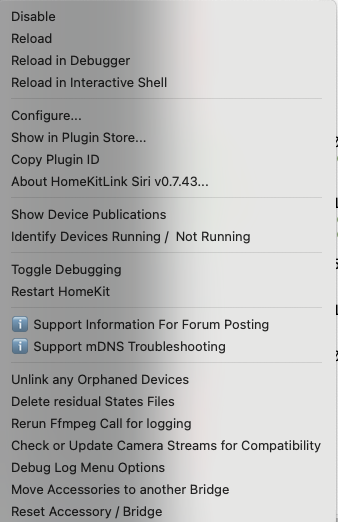
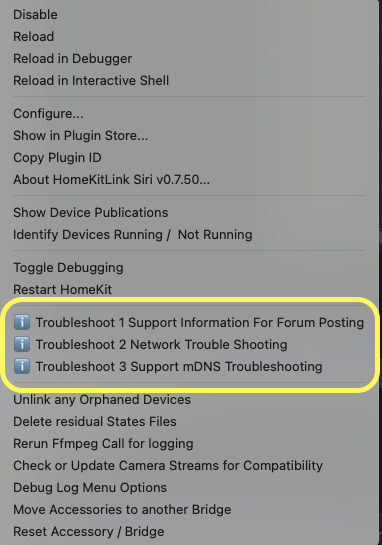
0.8.05
Amalgation of recent updates.
Add New Menu Item for Troubleshooting - now 1,2 and 3
Release as backwards compatible

diff --git a/HomeKitLink-Siri.indigoPlugin/Contents/Server Plugin/plugin.py b/HomeKitLink-Siri.indigoPlugin/Contents/Server Plugin/plugin.py
@@ -754,7 +754,7 @@ class Plugin(indigo.PluginBase):
 
             if int(self.count) > int(self.runningAccessoryCount):
                 self.logger.info('Given this difference, please review devices by Menu Item, Show Device Publications & Identity Devices Running for more information.')
-
+                self.logger.info("See Troubleshooting Menu items 1,2 and 3 from Plugin Menu for further aid")
 
             self.sleep(10)
 
@@ -5272,3 +5272,270 @@ class Plugin(indigo.PluginBase):
             self.logger.info(f"    Command not found: {command[0]} (may not be available on this system)")
         except Exception:
             self.logger.error(f"    Failed to run: {description}", exc_info=True)
+
+    def Menu_network_troubleshoot(self, *args, **kwargs):
+        """Standalone Network Troubleshooting function callable from the plugin menu.
+        Checks Apple Local Network Access permission, general network reachability,
+        and logs diagnostic results."""
+        try:
+            import socket
+            import struct
+
+            self.logger.info(u"{0:=^190}".format(""))
+            self.logger.info(u"{0:=^190}".format(" Network Trouble Shooting "))
+            self.logger.info(u"{0:=^190}".format(""))
+
+            ## ── Step 1: System information ──
+            self.logger.info(u"{0:=^130}".format(" System Information "))
+            self.logger.info(f"  macOS version:   {platform.mac_ver()[0] or platform.platform()}")
+            self.logger.info(f"  Python version:  {sys.version}")
+            self.logger.info(f"  Architecture:    {platform.machine()}")
+
+            ## ── Step 2: Apple Local Network Access Check ──
+            ## Starting with macOS Sequoia 15.x, Apple requires explicit Local Network Access
+            ## permission for each application/plugin. If this is not enabled in
+            ## System Settings > Privacy & Security > Local Network, then mDNS advertisement
+            ## will silently fail, preventing HomeKit discovery.
+            self.logger.info(u"{0:=^130}".format(" Apple Local Network Access Check "))
+            self.logger.info("  macOS Sequoia (15.x+) requires Local Network Access for plugins to use mDNS.")
+            self.logger.info("  If this is not enabled, HomeKit bridges will NOT be discoverable.")
+
+            local_network_ok = False
+
+            # First, determine the local non-loopback IP to use for testing.
+            # Prefer the plugin's configured HAPServeripaddress, otherwise auto-detect.
+            self.logger.info("  --- Detecting local network interface ---")
+            test_ip = None
+            if self.HAPServeripaddress and self.HAPServeripaddress not in ("127.0.0.1", "0.0.0.0", ""):
+                test_ip = self.HAPServeripaddress
+                self.logger.info(f"  Using plugin configured server IP: {test_ip}")
+            else:
+                # Auto-detect by routing to an external address (UDP connect does not send data)
+                try:
+                    detect_sock = socket.socket(socket.AF_INET, socket.SOCK_DGRAM)
+                    detect_sock.settimeout(2)
+                    try:
+                        detect_sock.connect(("8.8.8.8", 80))
+                        detected_ip = detect_sock.getsockname()[0]
+                        if detected_ip and detected_ip != "127.0.0.1":
+                            test_ip = detected_ip
+                            self.logger.info(f"  Auto-detected local IP: {test_ip}")
+                        else:
+                            self.logger.warning(f"  ⚠️ Auto-detected IP is loopback ({detected_ip}). No real network interface found.")
+                    except OSError as detect_err:
+                        self.logger.warning(f"  ⚠️ Could not auto-detect local IP: {detect_err}")
+                    finally:
+                        detect_sock.close()
+                except Exception:
+                    self.logger.warning("  ⚠️ Failed to create detection socket.", exc_info=True)
+
+            # Test 1: Multicast send test — the DEFINITIVE Local Network Access test.
+            # This replicates the exact failure mode seen when LNA is blocked:
+            #   socket → IP_MULTICAST_IF (bind to real interface) → sendto(mDNS group)
+            # If LNA is blocked, sendto() will fail. Binding to a specific non-loopback
+            # interface prevents the test from passing via loopback.
+            self.logger.info("  --- Test: mDNS Multicast Send (definitive LNA test) ---")
+            if test_ip:
+                try:
+                    MDNS_GROUP = "224.0.0.251"
+                    MDNS_PORT = 5353
+                    mc_sock = socket.socket(socket.AF_INET, socket.SOCK_DGRAM)
+                    mc_sock.settimeout(3)
+                    try:
+                        # Bind multicast output to the specific non-loopback interface
+                        mc_sock.setsockopt(socket.IPPROTO_IP, socket.IP_MULTICAST_IF, socket.inet_aton(test_ip))
+                        mc_sock.sendto(b"HKLS-LNA-test", (MDNS_GROUP, MDNS_PORT))
+                        self.logger.info(f"  ✅ Successfully sent multicast packet to {MDNS_GROUP}:{MDNS_PORT} via {test_ip}")
+                        self.logger.info("     Local Network Access is ENABLED.")
+                        local_network_ok = True
+                    except OSError as send_err:
+                        self.logger.warning(f"  ❌ Multicast send FAILED via {test_ip}: {send_err}")
+                        self.logger.warning("     This is a strong indicator that Apple Local Network Access is BLOCKED.")
+                        self.logger.warning("     Enable it in: System Settings > Privacy & Security > Local Network")
+                    finally:
+                        mc_sock.close()
+                except Exception:
+                    self.logger.warning("  ⚠️ Multicast send test encountered an error.", exc_info=True)
+            else:
+                self.logger.warning("  ⚠️ No non-loopback IP available — cannot perform multicast send test.")
+                self.logger.warning("     This likely means there is no active network connection.")
+
+            # Test 2: mDNS multicast group join (supplementary check).
+            # Note: When port 5353 is already in use (EADDRINUSE), the bind fails before
+            # we can test the multicast join, so EADDRINUSE is inconclusive for LNA status.
+            self.logger.info("  --- Test: mDNS Multicast Group Join ---")
+            try:
+                MDNS_GROUP = "224.0.0.251"
+                MDNS_PORT = 5353
+                sock = socket.socket(socket.AF_INET, socket.SOCK_DGRAM, socket.IPPROTO_UDP)
+                sock.setsockopt(socket.SOL_SOCKET, socket.SO_REUSEADDR, 1)
+                try:
+                    sock.setsockopt(socket.SOL_SOCKET, socket.SO_REUSEPORT, 1)
+                except AttributeError:
+                    pass
+                sock.settimeout(3)
+                try:
+                    sock.bind(("", MDNS_PORT))
+                    # Join the mDNS multicast group
+                    mreq = struct.pack("4sL", socket.inet_aton(MDNS_GROUP), socket.INADDR_ANY)
+                    sock.setsockopt(socket.IPPROTO_IP, socket.IP_ADD_MEMBERSHIP, mreq)
+                    self.logger.info(f"  ✅ Successfully joined mDNS multicast group {MDNS_GROUP}:{MDNS_PORT}")
+                except OSError as bind_err:
+                    if bind_err.errno in (48, 98):  # EADDRINUSE on macOS(48) / Linux(98)
+                        self.logger.info(f"  ℹ️ Port {MDNS_PORT} already in use (expected — mDNSResponder is running).")
+                        self.logger.info("     EADDRINUSE is normal but inconclusive for LNA — see multicast send test above.")
+                    else:
+                        self.logger.warning(f"  ⚠️ Failed to bind mDNS multicast socket: {bind_err}")
+                finally:
+                    sock.close()
+            except Exception:
+                self.logger.warning("  ⚠️ mDNS multicast group join test failed.", exc_info=True)
+
+            # Test 3: Outbound UDP connectivity — check if we reach a real interface or just loopback.
+            self.logger.info("  --- Test: Outbound UDP Connectivity ---")
+            try:
+                udp_sock = socket.socket(socket.AF_INET, socket.SOCK_DGRAM)
+                udp_sock.settimeout(2)
+                try:
+                    udp_sock.setsockopt(socket.SOL_SOCKET, socket.SO_BROADCAST, 1)
+                    udp_sock.connect(("10.255.255.255", 80))
+                    local_ip = udp_sock.getsockname()[0]
+                    if local_ip == "127.0.0.1":
+                        self.logger.warning(f"  ⚠️ Outbound UDP routed to loopback ({local_ip}) — no real network interface active.")
+                    else:
+                        self.logger.info(f"  ✅ Outbound UDP connectivity OK. Local IP: {local_ip}")
+                except OSError as udp_err:
+                    self.logger.warning(f"  ⚠️ Outbound UDP connectivity failed: {udp_err}")
+                    self.logger.warning("     This may indicate no active network interface or Local Network Access is blocked.")
+                finally:
+                    udp_sock.close()
+            except Exception:
+                self.logger.warning("  ⚠️ Unable to create UDP socket for connectivity test.", exc_info=True)
+
+            # Test 4: Local gateway reachability (supplementary check)
+            self.logger.info("  --- Test: Local Gateway Reachability ---")
+            try:
+                gw_sock = socket.socket(socket.AF_INET, socket.SOCK_DGRAM)
+                gw_sock.settimeout(2)
+                try:
+                    gw_sock.connect(("8.8.8.8", 80))
+                    local_ip = gw_sock.getsockname()[0]
+                finally:
+                    gw_sock.close()
+                if local_ip == "127.0.0.1":
+                    self.logger.warning("  ⚠️ Route detection returned loopback — skipping gateway check.")
+                else:
+                    parts = local_ip.split(".")
+                    if len(parts) == 4:
+                        gateway_ip = f"{parts[0]}.{parts[1]}.{parts[2]}.1"
+                        self.logger.info(f"  Derived likely gateway: {gateway_ip}")
+                        gw_test = socket.socket(socket.AF_INET, socket.SOCK_STREAM)
+                        gw_test.settimeout(2)
+                        try:
+                            result = gw_test.connect_ex((gateway_ip, 80))
+                            if result == 0:
+                                self.logger.info(f"  ✅ Gateway {gateway_ip}:80 is reachable.")
+                            else:
+                                self.logger.info(f"  ℹ️ Gateway {gateway_ip}:80 returned error code {result} (port may be closed, but host may still be reachable).")
+                        except OSError as gw_err:
+                            self.logger.info(f"  ℹ️ Gateway {gateway_ip} connectivity test: {gw_err}")
+                        finally:
+                            gw_test.close()
+                    else:
+                        self.logger.info(f"  ℹ️ Could not derive gateway from local IP: {local_ip}")
+            except Exception:
+                self.logger.warning("  ⚠️ Local gateway reachability test failed.", exc_info=True)
+
+            ## ── Step 3: Check macOS firewall status ──
+            self.logger.info(u"{0:=^130}".format(" Firewall Status "))
+            self._mdns_run_command(
+                "Check firewall status (socketfilterfw)",
+                ["/usr/libexec/ApplicationFirewall/socketfilterfw", "--getglobalstate"],
+                timeout=5
+            )
+            self._mdns_run_command(
+                "Check firewall stealth mode",
+                ["/usr/libexec/ApplicationFirewall/socketfilterfw", "--getstealthmode"],
+                timeout=5
+            )
+            self._mdns_run_command(
+                "Check firewall block-all setting",
+                ["/usr/libexec/ApplicationFirewall/socketfilterfw", "--getblockall"],
+                timeout=5
+            )
+
+            ## ── Step 4: Check Indigo-specific network configuration ──
+            self.logger.info(u"{0:=^130}".format(" Plugin Network Configuration "))
+            self.logger.info(f"  HKLS Advertised IP address: {self.HAPAdvertised_ipaddress}")
+            self.logger.info(f"  HKLS Server IP address:     {self.HAPServeripaddress}")
+            self.logger.info(f"  Selected IP version:        {self.select_ip_version}")
+            if isinstance(self.select_interfaces, list):
+                self.logger.info(f"  Select interfaces:          {self.select_interfaces}")
+            else:
+                self.logger.info(f"  Select interfaces:          {self.select_interfaces if self.select_interfaces != InterfaceChoice.All else 'All (default)'}")
+            self.logger.info(f"  Starting port number:       {self.startingPortNumber}")
+            self.logger.info(f"  Active drivers:             {len(self.driver_multiple)}")
+            self.logger.info(f"  Active bridges:             {len(self.bridge_multiple)}")
+
+            ## ── Step 5: Port availability check for bridge ports ──
+            self.logger.info(u"{0:=^130}".format(" Bridge Port Checks "))
+            for idx, driver in enumerate(self.driver_multiple):
+                try:
+                    port = driver.state.port
+                    addr = driver.state.address
+                    self.logger.info(f"  Bridge[{idx}]: port={port}, address={addr}")
+                    test_sock = socket.socket(socket.AF_INET, socket.SOCK_STREAM)
+                    test_sock.settimeout(2)
+                    try:
+                        result = test_sock.connect_ex((addr or "127.0.0.1", port))
+                        if result == 0:
+                            self.logger.info(f"    ✅ Port {port} is accepting connections.")
+                        else:
+                            self.logger.warning(f"    ⚠️ Port {port} is not accepting connections (connect_ex returned {result}).")
+                    finally:
+                        test_sock.close()
+                except Exception:
+                    self.logger.info(f"  Bridge[{idx}]: unable to check port (driver state unavailable)")
+
+            ## ── Step 6: DNS resolution check ──
+            self.logger.info(u"{0:=^130}".format(" DNS Resolution Check "))
+            for hostname in ["apple.com", "github.com"]:
+                try:
+                    addrs = socket.getaddrinfo(hostname, None)
+                    ips = list(set(a[4][0] for a in addrs))
+                    self.logger.info(f"  {hostname} resolves to: {ips}")
+                except socket.gaierror as e:
+                    self.logger.info(f"  {hostname} resolution failed: {e}")
+
+            ## ── Step 7: Summary and recommendations ──
+            self.logger.info(u"{0:=^130}".format(" Recommendations "))
+            if local_network_ok:
+                self.logger.info("  ✅ Local Network Access appears to be working (multicast send test passed).")
+            else:
+                self.logger.warning("  ⚠️ Local Network Access may be BLOCKED.")
+                self.logger.warning("     The multicast send test (the definitive LNA check) did NOT pass.")
+                self.logger.warning("     This is the most common cause of HomeKit bridges not being discoverable.")
+
+            self.logger.info("")
+            self.logger.info("  To check/enable Local Network Access on macOS Sequoia (15.x+):")
+            self.logger.info("    1. Open System Settings > Privacy & Security > Local Network")
+            self.logger.info("    2. Find 'IndigoPluginHost3' (and the Indigo Server application) in the list")
+            self.logger.info("    3. Ensure the toggle is ENABLED")
+            self.logger.info("    4. If it is not listed, try restarting the plugin — macOS should prompt for permission")
+            self.logger.info("")
+            self.logger.info("  If Local Network Access is blocked, mDNS service advertisement will silently fail")
+            self.logger.info("  and HomeKit bridges will not be discoverable in the Home app.")
+            self.logger.info("")
+            self.logger.info("  Additional tips:")
+            self.logger.info("    - If the firewall is enabled, ensure IndigoServer/IndigoPluginHost3 is allowed.")
+            self.logger.info("    - If Stealth Mode is on, incoming mDNS responses may be blocked.")
+            self.logger.info("    - Verify bridge ports are accessible (see port checks above).")
+            self.logger.info("    - Copy and paste the above output when reporting network issues.")
+
+            self.logger.info(u"{0:=^190}".format(""))
+            self.logger.info(u"{0:=^190}".format(" Network Trouble Shooting Complete "))
+            self.logger.info(u"{0:=^190}".format(""))
+
+        except Exception:
+            self.logger.error("Network Troubleshooting encountered an unexpected error", exc_info=True)
+